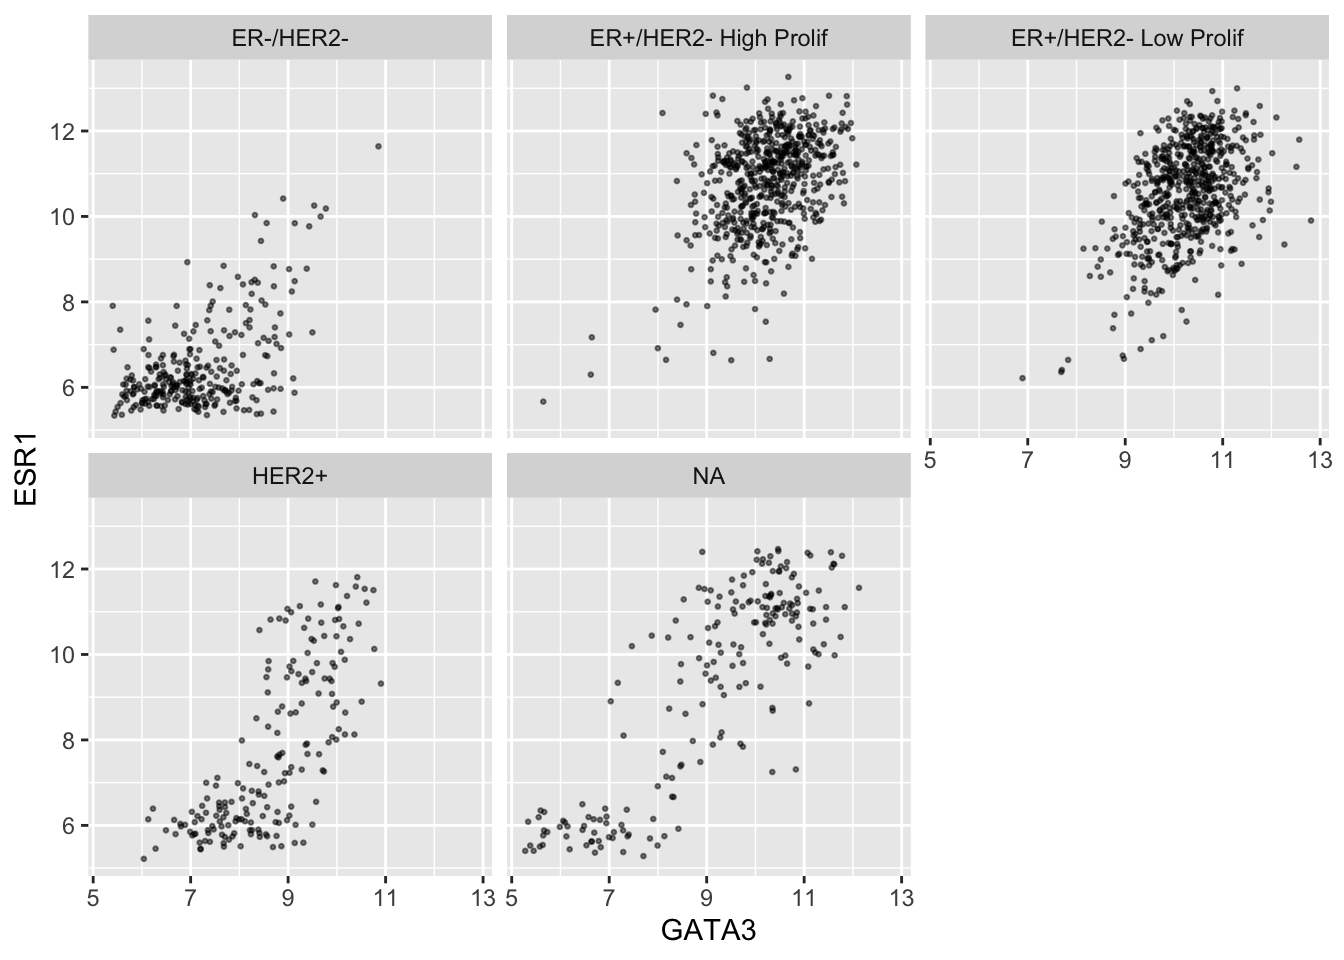
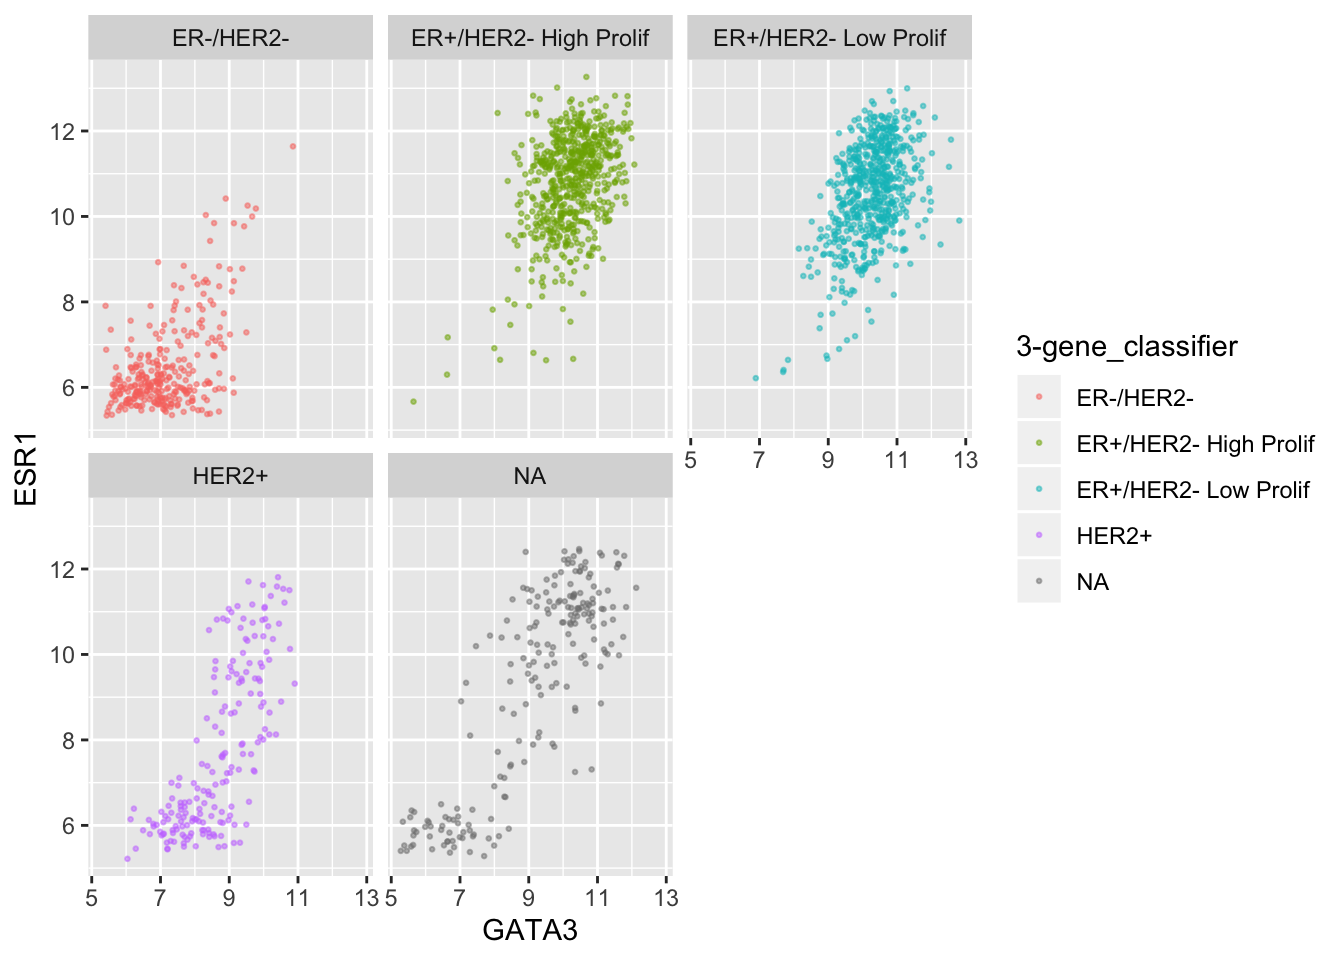
Fixed typos, added colours to a couple of faceted plots.

Changed region(s): [[0.0625, 0.0, 1.0, 1.0], [0.7812, 0.5938, 0.8125, 0.625]]

diff --git a/docs/week4.html b/docs/week4.html
@@ -1345,7 +1345,7 @@ Note the <code>first()</code>, <code>last()</code> and <code>n()</code> are only
 <pre class="r"><code>ggplot(data = metabric, mapping = aes(x = GATA3, y = ESR1, colour = PR_status)) +
   geom_point(size = 0.5, alpha = 0.5)</code></pre>
 <p><img src="week4_files/figure-html/scatter_plot_2-1.png" width="672" /></p>
-<p>An alternative is to used faceting with <strong><code>facet_wrap()</code></strong>.</p>
+<p>An alternative is to use faceting with <strong><code>facet_wrap()</code></strong>.</p>
 <pre class="r"><code>ggplot(data = metabric, mapping = aes(x = GATA3, y = ESR1)) +
   geom_point(size = 0.5, alpha = 0.5) +
   facet_wrap(~ PR_status)</code></pre>
@@ -1357,17 +1357,17 @@ Note the <code>first()</code>, <code>last()</code> and <code>n()</code> are only
   geom_point(size = 0.5, alpha = 0.5) +
   facet_wrap(~ PR_status)</code></pre>
 <p><img src="week4_files/figure-html/scatter_plot_4-1.png" width="672" /></p>
-<p>Faceting is usually better than displaying groups using different colours when there are more than two or three groups when it can be difficult to really tell which points which belong to each group. A case in point is for the 3-gene classification in the GATA3 vs ESR1 scatter plot we created last week. Let’s create a faceted version of that plot.</p>
-<pre class="r"><code>ggplot(data = metabric, mapping = aes(x = GATA3, y = ESR1)) +
+<p>Faceting is usually better than displaying groups using different colours when there are more than two or three groups when it can be difficult to really tell which points belong to each group. A case in point is for the 3-gene classification in the GATA3 vs ESR1 scatter plot we created last week. Let’s create a faceted version of that plot.</p>
+<pre class="r"><code>ggplot(data = metabric, mapping = aes(x = GATA3, y = ESR1, colour = `3-gene_classifier`)) +
   geom_point(size = 0.5, alpha = 0.5) +
   facet_wrap(~ `3-gene_classifier`)</code></pre>
 <p><img src="week4_files/figure-html/scatter_plot_5-1.png" width="672" /></p>
 <p>This helps explain why the function is called <code>facet_wrap()</code>. When it has too many subplots to fit across the page, it wraps around to another row. We can control how many rows or columns to use with the <code>nrow</code> and <code>ncol</code> arguments.</p>
-<pre class="r"><code>ggplot(data = metabric, mapping = aes(x = GATA3, y = ESR1)) +
+<pre class="r"><code>ggplot(data = metabric, mapping = aes(x = GATA3, y = ESR1, colour = `3-gene_classifier`)) +
   geom_point(size = 0.5, alpha = 0.5) +
   facet_wrap(~ `3-gene_classifier`, nrow = 1)</code></pre>
 <p><img src="week4_files/figure-html/scatter_plot_6-1.png" width="672" /></p>
-<pre class="r"><code>ggplot(data = metabric, mapping = aes(x = GATA3, y = ESR1)) +
+<pre class="r"><code>ggplot(data = metabric, mapping = aes(x = GATA3, y = ESR1, colour = `3-gene_classifier`)) +
   geom_point(size = 0.5, alpha = 0.5) +
   facet_wrap(~ `3-gene_classifier`, ncol = 2)</code></pre>
 <p><img src="week4_files/figure-html/scatter_plot_7-1.png" width="672" /></p>
